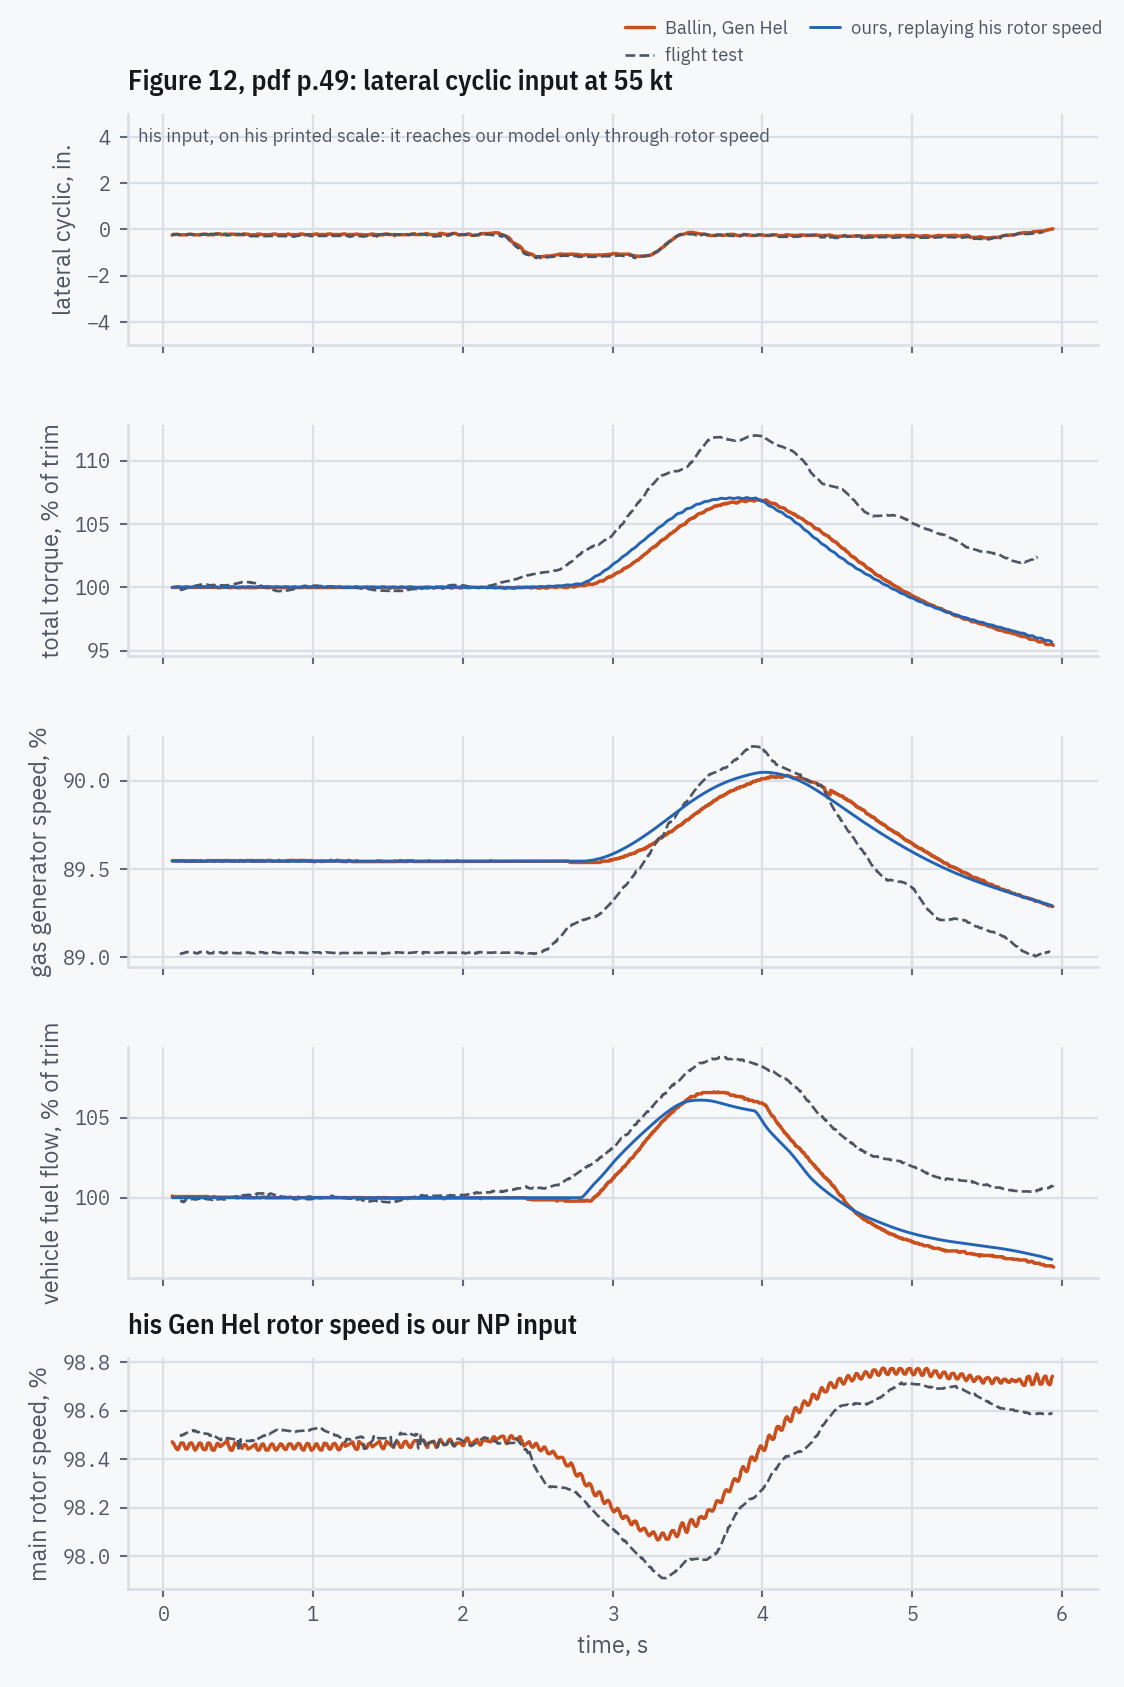
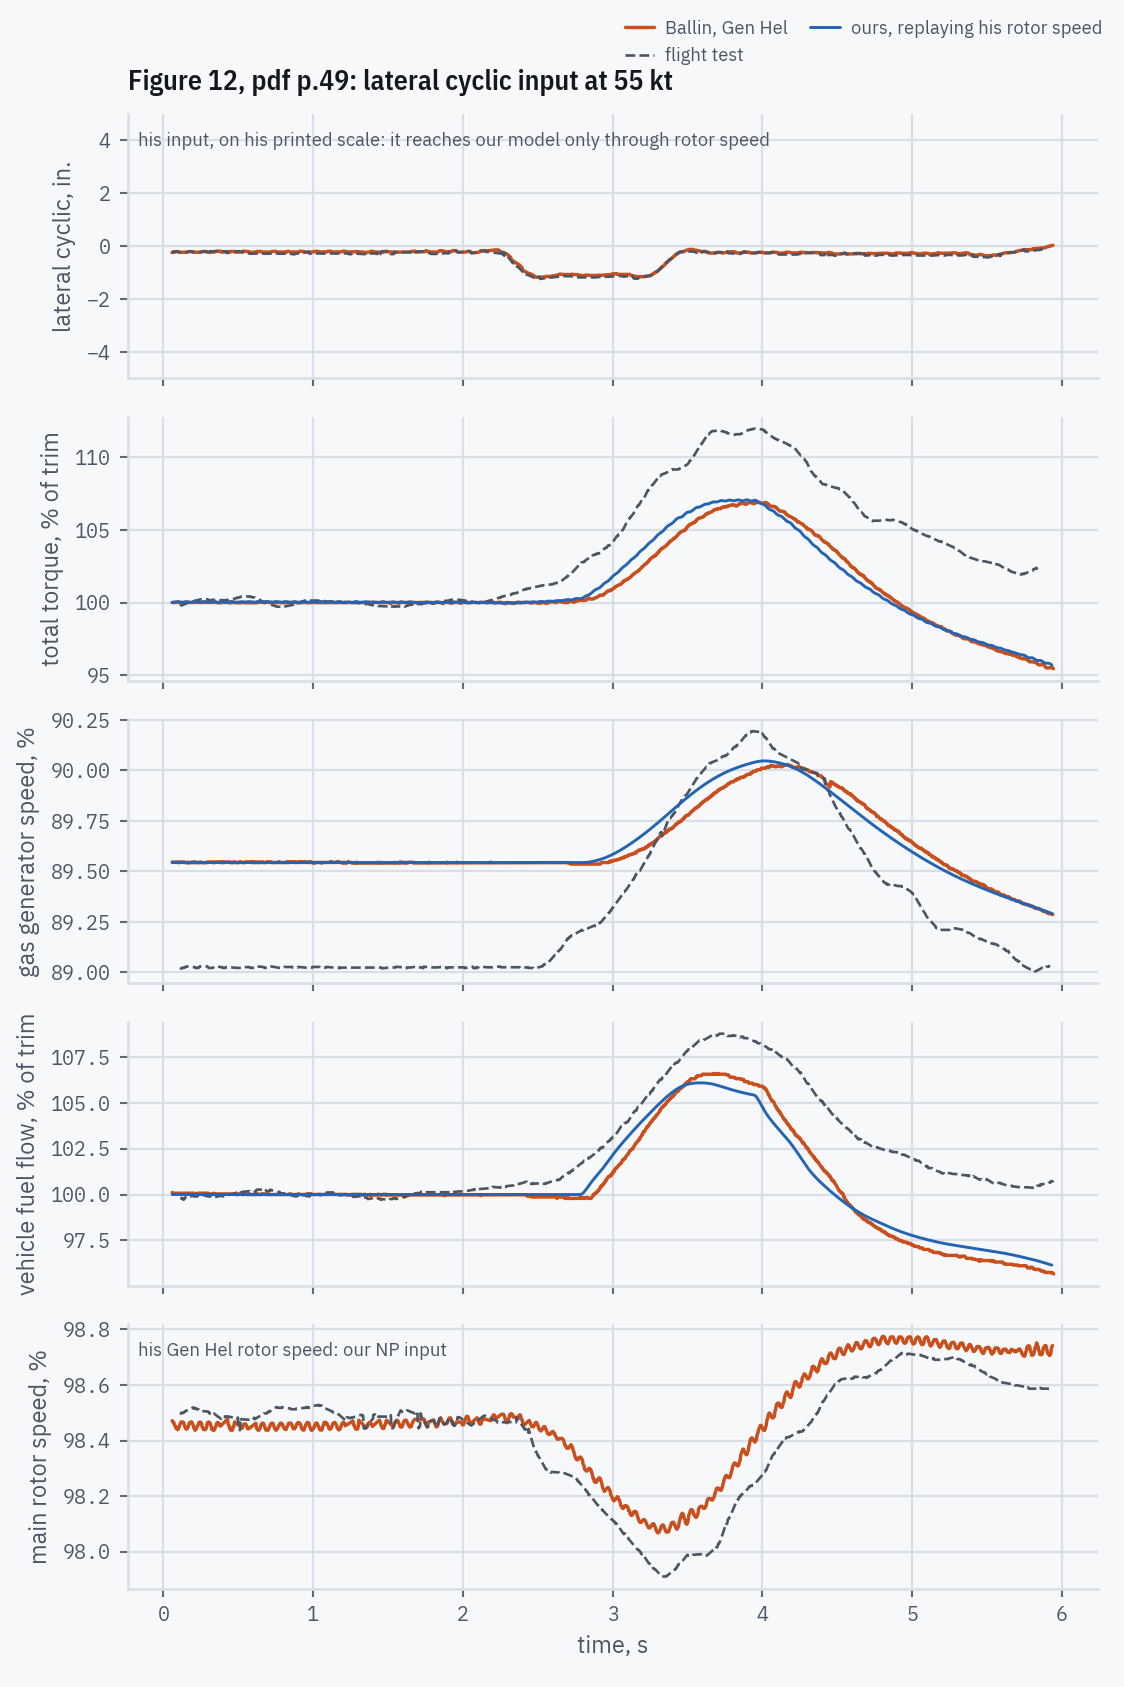
gen hel plots: the rotor-speed label is a small note, not a title
Matches the input panels' note. No number moves.

Claude-Session: https://claude.ai/code/session_01RjvrKad8gE6F4A3xardmyd

diff --git a/validation/report.py b/validation/report.py
@@ -921,7 +921,7 @@ def gen_hel() -> dict:
             ("torque", "total torque, % of trim", ""),
             ("ng", "gas generator speed, %", ""),
             ("fuel", "vehicle fuel flow, % of trim", ""),
-            ("nr", "main rotor speed, %", "his Gen Hel rotor speed is our NP input"),
+            ("nr", "main rotor speed, %", ""),
         )
         for ax, (key, ylabel, title) in zip(axes, rows, strict=True):
             for line, sty, colr, lab in (
@@ -958,6 +958,15 @@ def gen_hel() -> dict:
                     "rotor speed"
                 )
                 ax.text(0.01, 0.88, note, transform=ax.transAxes, fontsize=7, color=MUTED)
+            if key == "nr":
+                ax.text(
+                    0.01,
+                    0.88,
+                    "his Gen Hel rotor speed: our NP input",
+                    transform=ax.transAxes,
+                    fontsize=7,
+                    color=MUTED,
+                )
             _style(ax, "time, s" if key == "nr" else "", ylabel, title)
         handles, labels = axes[2].get_legend_handles_labels()
         fig.legend(
